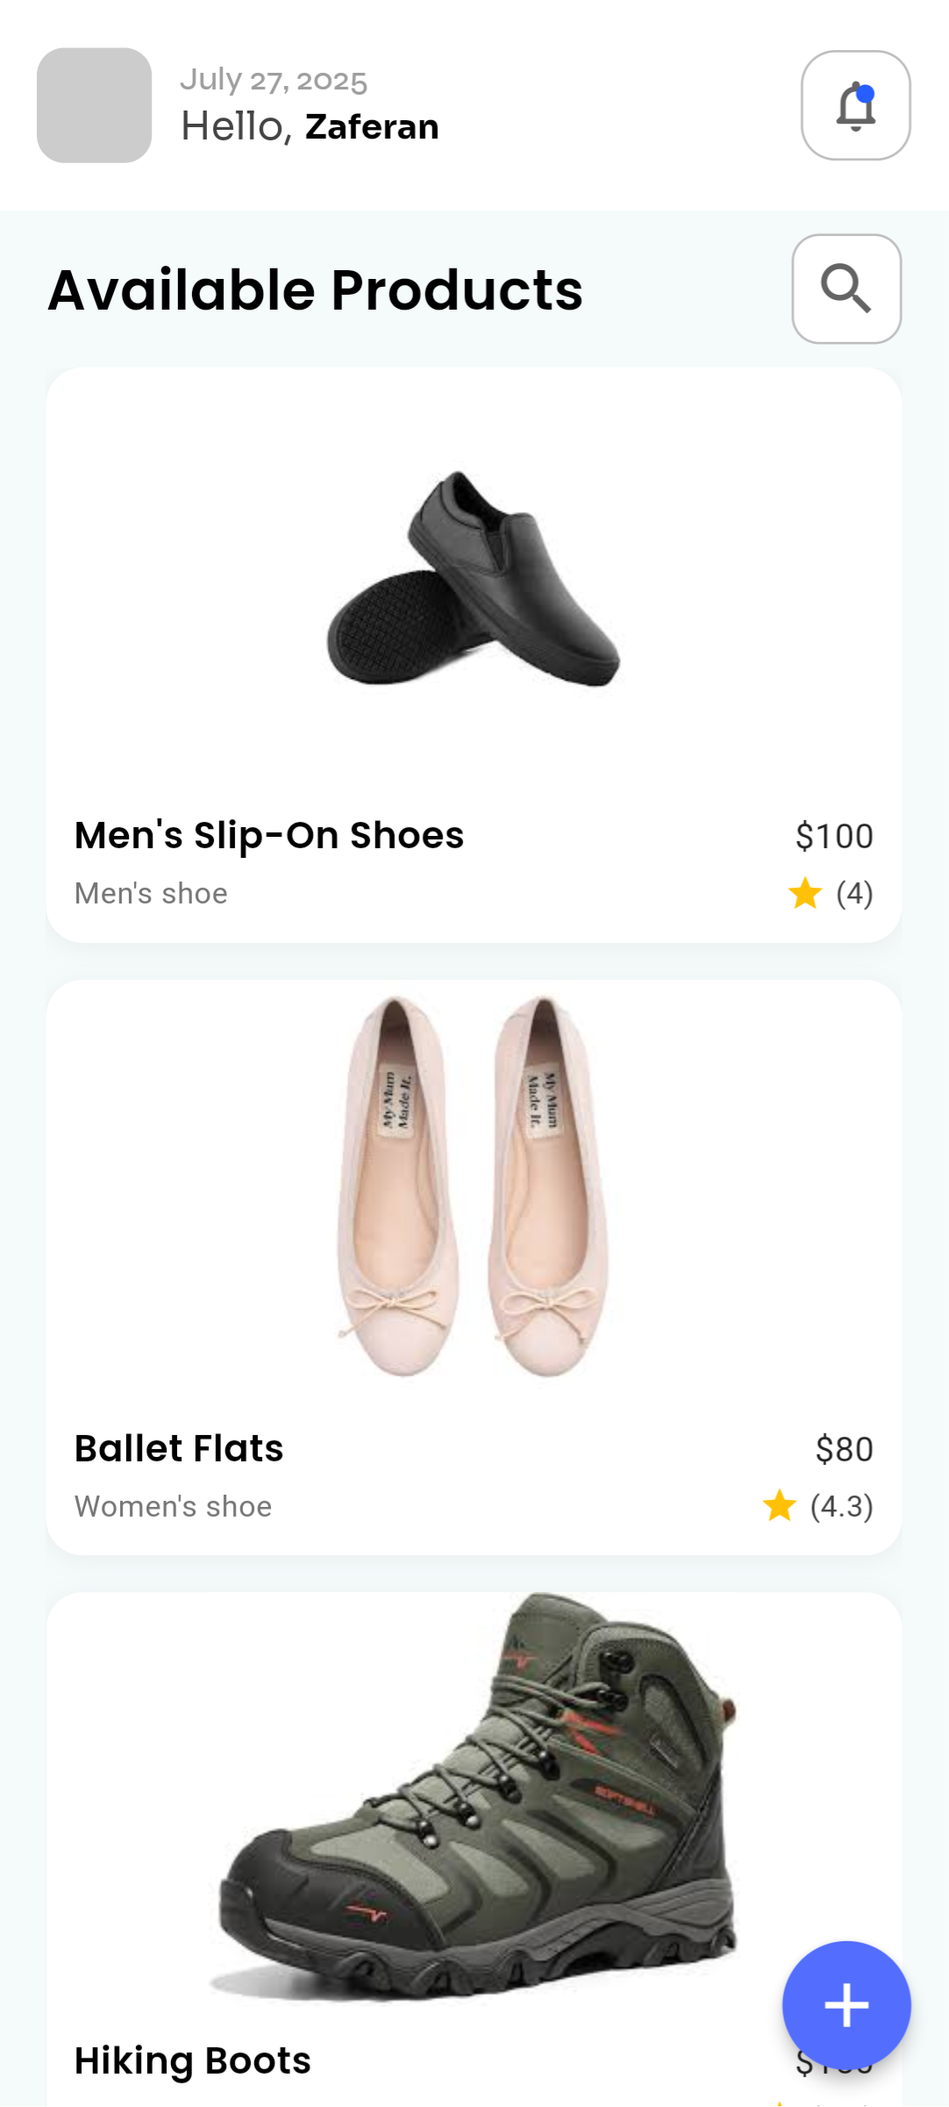
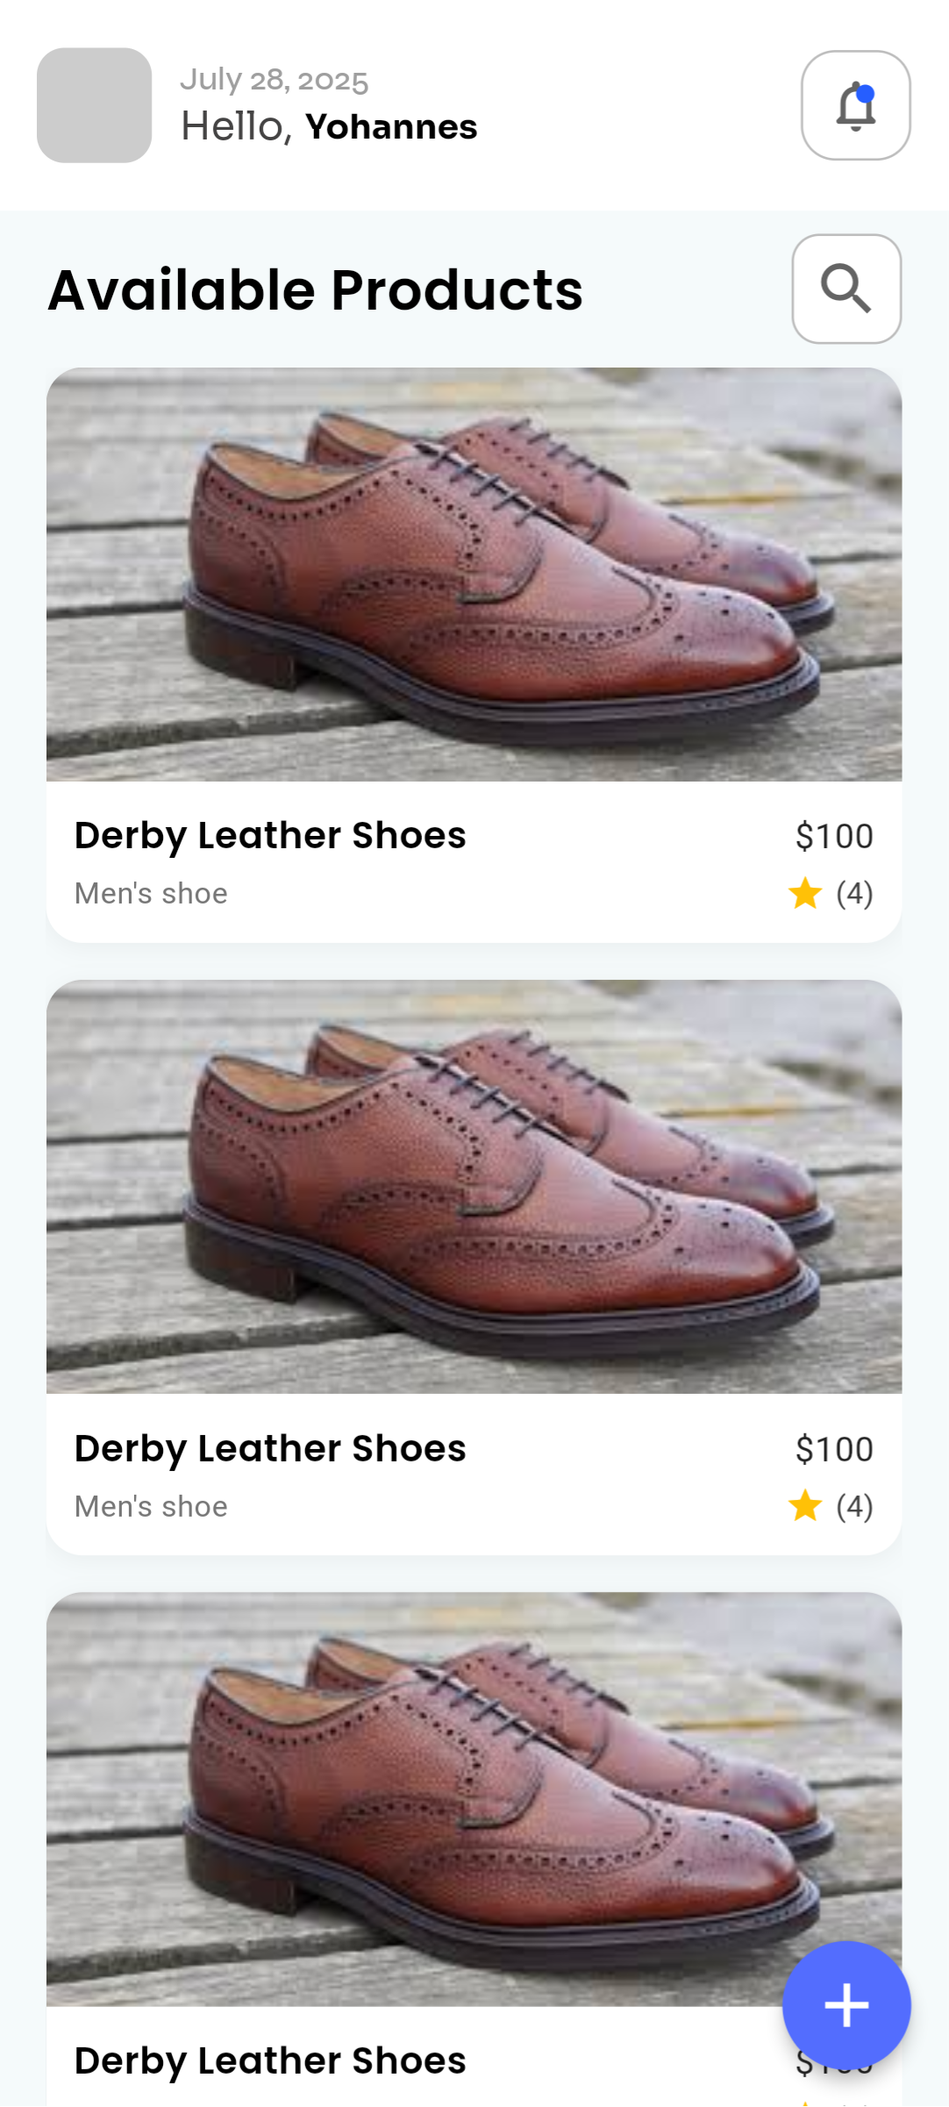
CHanging the image

diff --git a/mobile/zaferan/internship/lib/model/products_repository.dart b/mobile/zaferan/internship/lib/model/products_repository.dart
@@ -2,84 +2,129 @@ import 'package:internship/model/product.dart';
 
 final List<Product> products = [
   Product(
-    name: 'Men\'s Slip-On Shoes',
-    image: 'images/slip_on_shoes.jpg',
+    name: 'Derby Leather Shoes',
+    image: 'images/derby_leather_shoes.jpg',
     gender: 'Men\'s',
     price: 100,
     rating: 4.0,
-    description: 'A slip-on leather shoe is a classic and convenient footwear option known for its laceless design, allowing easy wear and removal. This streamlined silhouette offers a relaxed yet refined appearance, ideal for those seeking both comfort and style. Typically crafted from high-quality leather, slip-ons provide durability and sophistication, making them versatile enough for both casual outings and smart-casual settings. With their timeless look and effortless fit, slip-on leather shoes are a dependable addition to any well-rounded wardrobe.',
-    sizes: [40, 41, 42, 43, 44, 45, 46, 47, 48],
+    description: 'A derby leather shoe is a classic and versatile footwear option characterized by its open lacing system, where the shoelace eyelets are sewn on top of the vamp (the upper part of the shoe). This design feature provides a more relaxed and casual look compared to the closed lacing system of oxford shoes. Derby shoes are typically made of high-quality leather, known for its durability and elegance, making them suitable for both formal and casual occasions. With their timeless style and comfortable fit, derby leather shoes are a staple in any well-rounded wardrobe.',
+    sizes: [39,40, 41, 42, 43, 44, 45, 46, 47, 48],
   ),
   Product(
-    name: 'Ballet Flats',
-    image: 'images/ballet_flats.jpg',
-    gender: 'Women\'s',
-    price: 80,
-    rating: 4.3,
-    description:'A ballet flat is a timeless and elegant footwear choice, defined by its simple, low-cut design and close-to-foot fit. Inspired by traditional dance shoes, ballet flats offer a graceful and minimalist look, making them a popular choice for both casual and semi-formal occasions. Often made from supple leather or soft fabrics, they combine comfort with subtle sophistication. With their versatility and classic appeal, ballet flats are a staple in any modern wardrobe.',
-    sizes: [35, 36, 37, 38, 39, 40, 41, 42],
-  ),
-  Product(
-    name: 'Hiking Boots',
-    image: 'images/hiking_boots.jpg',
-    gender: 'Men\'s',
-    price: 150,
-    rating: 4.8,
-    description: 'Hiking shoes are rugged and supportive footwear designed specifically for outdoor adventures and rough terrain. Characterized by their durable construction, reinforced soles, and strong grip, hiking shoes provide stability and protection for long treks. Often made with water-resistant materials and breathable linings, they ensure comfort in various weather conditions. Combining function with all-day wearability, hiking shoes are an essential part of any outdoor enthusiast’s gear.',
-    sizes: [39, 40, 41, 42, 43, 44, 45, 46, 47],
-  ),
-  Product(
-    name: 'Men\'s Slip-On Shoes',
-    image: 'images/slip_on_shoes.jpg',
+    name: 'Derby Leather Shoes',
+    image: 'images/derby_leather_shoes.jpg',
     gender: 'Men\'s',
     price: 100,
     rating: 4.0,
-    description: 'A slip-on leather shoe is a classic and convenient footwear option known for its laceless design, allowing easy wear and removal. This streamlined silhouette offers a relaxed yet refined appearance, ideal for those seeking both comfort and style. Typically crafted from high-quality leather, slip-ons provide durability and sophistication, making them versatile enough for both casual outings and smart-casual settings. With their timeless look and effortless fit, slip-on leather shoes are a dependable addition to any well-rounded wardrobe.',
-    sizes: [40, 41, 42, 43, 44, 45, 46, 47, 48],
+    description: 'A derby leather shoe is a classic and versatile footwear option characterized by its open lacing system, where the shoelace eyelets are sewn on top of the vamp (the upper part of the shoe). This design feature provides a more relaxed and casual look compared to the closed lacing system of oxford shoes. Derby shoes are typically made of high-quality leather, known for its durability and elegance, making them suitable for both formal and casual occasions. With their timeless style and comfortable fit, derby leather shoes are a staple in any well-rounded wardrobe.',
+    sizes: [39,40, 41, 42, 43, 44, 45, 46, 47, 48],
   ),
   Product(
-    name: 'Ballet Flats',
-    image: 'images/ballet_flats.jpg',
-    gender: 'Women\'s',
-    price: 80,
-    rating: 4.3,
-    description:'A ballet flat is a timeless and elegant footwear choice, defined by its simple, low-cut design and close-to-foot fit. Inspired by traditional dance shoes, ballet flats offer a graceful and minimalist look, making them a popular choice for both casual and semi-formal occasions. Often made from supple leather or soft fabrics, they combine comfort with subtle sophistication. With their versatility and classic appeal, ballet flats are a staple in any modern wardrobe.',
-    sizes: [35, 36, 37, 38, 39, 40, 41, 42],
-  ),
-  Product(
-    name: 'Hiking Boots',
-    image: 'images/hiking_boots.jpg',
-    gender: 'Men\'s',
-    price: 150,
-    rating: 4.8,
-    description: 'Hiking shoes are rugged and supportive footwear designed specifically for outdoor adventures and rough terrain. Characterized by their durable construction, reinforced soles, and strong grip, hiking shoes provide stability and protection for long treks. Often made with water-resistant materials and breathable linings, they ensure comfort in various weather conditions. Combining function with all-day wearability, hiking shoes are an essential part of any outdoor enthusiast’s gear.',
-    sizes: [41, 42, 43, 44, 45, 42, 43, 44, 45],
-  ),
-  Product(
-    name: 'Men\'s Slip-On Shoes',
-    image: 'images/slip_on_shoes.jpg',
+    name: 'Derby Leather Shoes',
+    image: 'images/derby_leather_shoes.jpg',
     gender: 'Men\'s',
     price: 100,
     rating: 4.0,
-    description: 'A slip-on leather shoe is a classic and convenient footwear option known for its laceless design, allowing easy wear and removal. This streamlined silhouette offers a relaxed yet refined appearance, ideal for those seeking both comfort and style. Typically crafted from high-quality leather, slip-ons provide durability and sophistication, making them versatile enough for both casual outings and smart-casual settings. With their timeless look and effortless fit, slip-on leather shoes are a dependable addition to any well-rounded wardrobe.',
-    sizes: [39, 40, 41, 42, 43, 44, 45, 46, 47],
+    description: 'A derby leather shoe is a classic and versatile footwear option characterized by its open lacing system, where the shoelace eyelets are sewn on top of the vamp (the upper part of the shoe). This design feature provides a more relaxed and casual look compared to the closed lacing system of oxford shoes. Derby shoes are typically made of high-quality leather, known for its durability and elegance, making them suitable for both formal and casual occasions. With their timeless style and comfortable fit, derby leather shoes are a staple in any well-rounded wardrobe.',
+    sizes: [39,40, 41, 42, 43, 44, 45, 46, 47, 48],
   ),
   Product(
-    name: 'Ballet Flats',
-    image: 'images/ballet_flats.jpg',
-    gender: 'Women\'s',
-    price: 80,
-    rating: 4.3,
-    description:'A ballet flat is a timeless and elegant footwear choice, defined by its simple, low-cut design and close-to-foot fit. Inspired by traditional dance shoes, ballet flats offer a graceful and minimalist look, making them a popular choice for both casual and semi-formal occasions. Often made from supple leather or soft fabrics, they combine comfort with subtle sophistication. With their versatility and classic appeal, ballet flats are a staple in any modern wardrobe.',
-    sizes: [35, 36, 37, 38, 39, 40, 41, 42],
-  ),
-  Product(
-    name: 'Hiking Boots',
-    image: 'images/hiking_boots.jpg',
+    name: 'Derby Leather Shoes',
+    image: 'images/derby_leather_shoes.jpg',
     gender: 'Men\'s',
-    price: 150,
-    rating: 4.8,
-    description: 'Hiking shoes are rugged and supportive footwear designed specifically for outdoor adventures and rough terrain. Characterized by their durable construction, reinforced soles, and strong grip, hiking shoes provide stability and protection for long treks. Often made with water-resistant materials and breathable linings, they ensure comfort in various weather conditions. Combining function with all-day wearability, hiking shoes are an essential part of any outdoor enthusiast’s gear.',
-    sizes: [41, 42, 43, 44, 45, 42, 43, 44, 45],
+    price: 100,
+    rating: 4.0,
+    description: 'A derby leather shoe is a classic and versatile footwear option characterized by its open lacing system, where the shoelace eyelets are sewn on top of the vamp (the upper part of the shoe). This design feature provides a more relaxed and casual look compared to the closed lacing system of oxford shoes. Derby shoes are typically made of high-quality leather, known for its durability and elegance, making them suitable for both formal and casual occasions. With their timeless style and comfortable fit, derby leather shoes are a staple in any well-rounded wardrobe.',
+    sizes: [39,40, 41, 42, 43, 44, 45, 46, 47, 48],
+  ),
+  Product(
+    name: 'Derby Leather Shoes',
+    image: 'images/derby_leather_shoes.jpg',
+    gender: 'Men\'s',
+    price: 100,
+    rating: 4.0,
+    description: 'A derby leather shoe is a classic and versatile footwear option characterized by its open lacing system, where the shoelace eyelets are sewn on top of the vamp (the upper part of the shoe). This design feature provides a more relaxed and casual look compared to the closed lacing system of oxford shoes. Derby shoes are typically made of high-quality leather, known for its durability and elegance, making them suitable for both formal and casual occasions. With their timeless style and comfortable fit, derby leather shoes are a staple in any well-rounded wardrobe.',
+    sizes: [39,40, 41, 42, 43, 44, 45, 46, 47, 48],
+  ),
+  Product(
+    name: 'Derby Leather Shoes',
+    image: 'images/derby_leather_shoes.jpg',
+    gender: 'Men\'s',
+    price: 100,
+    rating: 4.0,
+    description: 'A derby leather shoe is a classic and versatile footwear option characterized by its open lacing system, where the shoelace eyelets are sewn on top of the vamp (the upper part of the shoe). This design feature provides a more relaxed and casual look compared to the closed lacing system of oxford shoes. Derby shoes are typically made of high-quality leather, known for its durability and elegance, making them suitable for both formal and casual occasions. With their timeless style and comfortable fit, derby leather shoes are a staple in any well-rounded wardrobe.',
+    sizes: [39,40, 41, 42, 43, 44, 45, 46, 47, 48],
+  ),
+  Product(
+    name: 'Derby Leather Shoes',
+    image: 'images/derby_leather_shoes.jpg',
+    gender: 'Men\'s',
+    price: 100,
+    rating: 4.0,
+    description: 'A derby leather shoe is a classic and versatile footwear option characterized by its open lacing system, where the shoelace eyelets are sewn on top of the vamp (the upper part of the shoe). This design feature provides a more relaxed and casual look compared to the closed lacing system of oxford shoes. Derby shoes are typically made of high-quality leather, known for its durability and elegance, making them suitable for both formal and casual occasions. With their timeless style and comfortable fit, derby leather shoes are a staple in any well-rounded wardrobe.',
+    sizes: [39,40, 41, 42, 43, 44, 45, 46, 47, 48],
+  ),
+  Product(
+    name: 'Derby Leather Shoes',
+    image: 'images/derby_leather_shoes.jpg',
+    gender: 'Men\'s',
+    price: 100,
+    rating: 4.0,
+    description: 'A derby leather shoe is a classic and versatile footwear option characterized by its open lacing system, where the shoelace eyelets are sewn on top of the vamp (the upper part of the shoe). This design feature provides a more relaxed and casual look compared to the closed lacing system of oxford shoes. Derby shoes are typically made of high-quality leather, known for its durability and elegance, making them suitable for both formal and casual occasions. With their timeless style and comfortable fit, derby leather shoes are a staple in any well-rounded wardrobe.',
+    sizes: [39,40, 41, 42, 43, 44, 45, 46, 47, 48],
+  ),
+  Product(
+    name: 'Derby Leather Shoes',
+    image: 'images/derby_leather_shoes.jpg',
+    gender: 'Men\'s',
+    price: 100,
+    rating: 4.0,
+    description: 'A derby leather shoe is a classic and versatile footwear option characterized by its open lacing system, where the shoelace eyelets are sewn on top of the vamp (the upper part of the shoe). This design feature provides a more relaxed and casual look compared to the closed lacing system of oxford shoes. Derby shoes are typically made of high-quality leather, known for its durability and elegance, making them suitable for both formal and casual occasions. With their timeless style and comfortable fit, derby leather shoes are a staple in any well-rounded wardrobe.',
+    sizes: [39,40, 41, 42, 43, 44, 45, 46, 47, 48],
+  ),
+  Product(
+    name: 'Derby Leather Shoes',
+    image: 'images/derby_leather_shoes.jpg',
+    gender: 'Men\'s',
+    price: 100,
+    rating: 4.0,
+    description: 'A derby leather shoe is a classic and versatile footwear option characterized by its open lacing system, where the shoelace eyelets are sewn on top of the vamp (the upper part of the shoe). This design feature provides a more relaxed and casual look compared to the closed lacing system of oxford shoes. Derby shoes are typically made of high-quality leather, known for its durability and elegance, making them suitable for both formal and casual occasions. With their timeless style and comfortable fit, derby leather shoes are a staple in any well-rounded wardrobe.',
+    sizes: [39,40, 41, 42, 43, 44, 45, 46, 47, 48],
+  ),
+  Product(
+    name: 'Derby Leather Shoes',
+    image: 'images/derby_leather_shoes.jpg',
+    gender: 'Men\'s',
+    price: 100,
+    rating: 4.0,
+    description: 'A derby leather shoe is a classic and versatile footwear option characterized by its open lacing system, where the shoelace eyelets are sewn on top of the vamp (the upper part of the shoe). This design feature provides a more relaxed and casual look compared to the closed lacing system of oxford shoes. Derby shoes are typically made of high-quality leather, known for its durability and elegance, making them suitable for both formal and casual occasions. With their timeless style and comfortable fit, derby leather shoes are a staple in any well-rounded wardrobe.',
+    sizes: [39,40, 41, 42, 43, 44, 45, 46, 47, 48],
+  ),
+  Product(
+    name: 'Derby Leather Shoes',
+    image: 'images/derby_leather_shoes.jpg',
+    gender: 'Men\'s',
+    price: 100,
+    rating: 4.0,
+    description: 'A derby leather shoe is a classic and versatile footwear option characterized by its open lacing system, where the shoelace eyelets are sewn on top of the vamp (the upper part of the shoe). This design feature provides a more relaxed and casual look compared to the closed lacing system of oxford shoes. Derby shoes are typically made of high-quality leather, known for its durability and elegance, making them suitable for both formal and casual occasions. With their timeless style and comfortable fit, derby leather shoes are a staple in any well-rounded wardrobe.',
+    sizes: [39,40, 41, 42, 43, 44, 45, 46, 47, 48],
+  ),
+  Product(
+    name: 'Derby Leather Shoes',
+    image: 'images/derby_leather_shoes.jpg',
+    gender: 'Men\'s',
+    price: 100,
+    rating: 4.0,
+    description: 'A derby leather shoe is a classic and versatile footwear option characterized by its open lacing system, where the shoelace eyelets are sewn on top of the vamp (the upper part of the shoe). This design feature provides a more relaxed and casual look compared to the closed lacing system of oxford shoes. Derby shoes are typically made of high-quality leather, known for its durability and elegance, making them suitable for both formal and casual occasions. With their timeless style and comfortable fit, derby leather shoes are a staple in any well-rounded wardrobe.',
+    sizes: [39,40, 41, 42, 43, 44, 45, 46, 47, 48],
+  ),
+  Product(
+    name: 'Derby Leather Shoes',
+    image: 'images/derby_leather_shoes.jpg',
+    gender: 'Men\'s',
+    price: 100,
+    rating: 4.0,
+    description: 'A derby leather shoe is a classic and versatile footwear option characterized by its open lacing system, where the shoelace eyelets are sewn on top of the vamp (the upper part of the shoe). This design feature provides a more relaxed and casual look compared to the closed lacing system of oxford shoes. Derby shoes are typically made of high-quality leather, known for its durability and elegance, making them suitable for both formal and casual occasions. With their timeless style and comfortable fit, derby leather shoes are a staple in any well-rounded wardrobe.',
+    sizes: [39,40, 41, 42, 43, 44, 45, 46, 47, 48],
   ),
 ];

diff --git a/mobile/zaferan/internship/lib/pages/details_page.dart b/mobile/zaferan/internship/lib/pages/details_page.dart
@@ -17,50 +17,57 @@ class _DetailsPageState extends State<DetailsPage> {
   Widget build(BuildContext context) {
     final product = widget.product;
     return Scaffold(
-      appBar: AppBar(
-        leadingWidth: 56,
-        leading: Padding(
-          padding: const EdgeInsets.all(8.0),
-          child: GestureDetector(
-            onTap: () {
-              Navigator.of(context).pop();
-            },
-            child: Container(
-              alignment: Alignment.center,
-              width: 36,
-              height: 36,
-              decoration: BoxDecoration(
-                color: Colors.white,
-                shape: BoxShape.circle,
-                boxShadow: [
-                  BoxShadow(
-                    color: Colors.grey,
-                    blurRadius: 4,
-                    offset: const Offset(0, 2),
-                  ),
-                ],
-              ),
-              child: Icon(
-                Icons.arrow_back_ios_sharp,
-                color: Colors.indigoAccent,
-                size: 20,
-              ),
-            ),
-          ),
-        ),
-      ),
-
       body: Padding(
         padding: const EdgeInsets.all(16),
         child: ListView(
           children: [
-            ClipRRect(
-              borderRadius: BorderRadius.circular(12),
-              child: Image.asset(
-                product.image,
-                height: 200,
-                fit: BoxFit.contain,
-              ),
+            Stack(
+              children: [
+                ClipRRect(
+                  borderRadius: const BorderRadius.only(
+                    bottomLeft: Radius.circular(20),
+                    bottomRight: Radius.circular(20),
+                    topLeft: Radius.circular(20),
+                    topRight: Radius.circular(20),
+                  ),
+                  child: Image.asset(
+                    product.image,
+                    width: double.infinity,
+                    height: 260,
+                    fit: BoxFit.cover,
+                  ),
+                ),
+                Positioned(
+                  top: 20,
+                  left: 16,
+                  child: GestureDetector(
+                    onTap: () {
+                      Navigator.of(context).pop();
+                    },
+                    child: Container(
+                      alignment: Alignment.center,
+                      width: 36,
+                      height: 36,
+                      decoration: BoxDecoration(
+                        color: Colors.white,
+                        shape: BoxShape.circle,
+                        boxShadow: [
+                          BoxShadow(
+                            color: Colors.grey,
+                            blurRadius: 4,
+                            offset: const Offset(0, 2),
+                          ),
+                        ],
+                      ),
+                      child: Icon(
+                        Icons.arrow_back_ios_sharp,
+                        color: Colors.indigoAccent,
+                        size: 20,
+                      ),
+                    ),
+                  ),
+                )
+              ]
             ),
             const SizedBox(height: 16),
 

diff --git a/mobile/zaferan/internship/lib/widgets/app_bar_content.dart b/mobile/zaferan/internship/lib/widgets/app_bar_content.dart
@@ -43,7 +43,7 @@ class AppBarContent extends StatelessWidget {
                 ),
                 SizedBox(width: 5.0),
                 Text(
-                  'Zaferan',
+                  'Yohannes',
                   style: GoogleFonts.sora(
                     color: Colors.black,
                     fontWeight: FontWeight.bold,

diff --git a/mobile/zaferan/internship/lib/widgets/product_card.dart b/mobile/zaferan/internship/lib/widgets/product_card.dart
@@ -44,7 +44,7 @@ class ProductCard extends StatelessWidget {
                 product.image,
                 width: double.infinity,
                 height: 180,
-                fit: BoxFit.contain,
+                fit: BoxFit.cover,
               ),
             ),
 

diff --git a/mobile/zaferan/internship/README.md b/mobile/zaferan/internship/README.md
@@ -8,11 +8,11 @@ A beautifully designed **Flutter UI project** for an e-commerce app, created as 
 
 | Home Screen | Details Screen |
 |-------------|----------------|
-| ![Home](images/home.png) | ![Details](images/details1.png) |
+| ![Home](images/home.png) | ![Details](images/details.png) |
 
 | Add Product | Search Page |
 |-------------|--------------|
-| ![Add](images/add.png) | ![Search](images/search2.png) |
+| ![Add](images/add.png) | ![Search](images/search1.png) |
 
 ---
 
